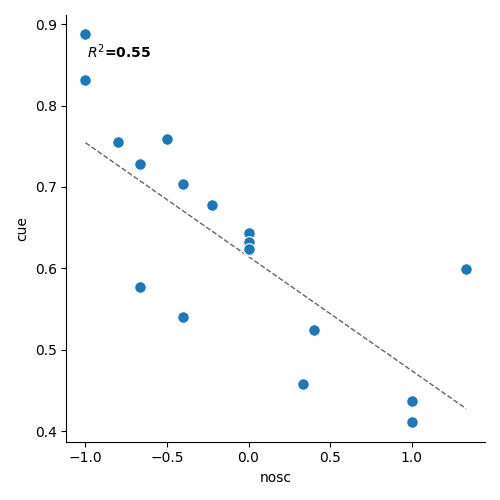
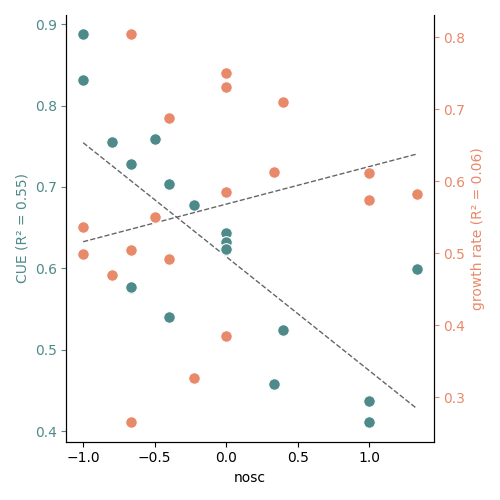
feat: add growth rate cross prediction to plot

diff --git a/simulations/growth_and_cue/calculate_regressions.py b/simulations/growth_and_cue/calculate_regressions.py
@@ -12,6 +12,10 @@ FIG_PATH = FILE_PATH / "figures"
 RES_PATH.mkdir(exist_ok=True)
 FIG_PATH.mkdir(exist_ok=True)
 
+# Define colors to use
+CUE_C = "#4f8a8b"
+GROWTH_C = "#e8896a"
+
 
 def main():
     # Load the results
@@ -25,12 +29,31 @@ def main():
     # Fit a regression line for CUE and NOSC
     m_cue, d_cue = fit(merged_df, "cue", ["nosc"])
 
+    # Fit a regression line for growth rate and NOSC
+    m_growth, d_growth = fit(merged_df, "growth_rate", ["nosc"])
+
     # Print the results
     print(f"CUE ~ nosc: R² = {m_cue.score(d_cue[['nosc']], d_cue['cue']):.3f}")
+    print(
+        f"Growth rate ~ nosc: R² = {m_growth.score(d_growth[['nosc']], d_growth['growth_rate']):.3f}"
+    )
 
     # Plot the results
     fig, ax = plt.subplots(figsize=(5, 5))
-    reg_plot(ax, m_cue, d_cue, "cue", ["nosc"])
+    ax2 = ax.twinx()
+    reg_plot(ax, m_cue, d_cue, "cue", ["nosc"], colors=CUE_C)
+    reg_plot(ax2, m_growth, d_growth, "growth_rate", ["nosc"], colors=GROWTH_C)
+
+    ax.set_ylabel(
+        f"CUE (R² = {m_cue.score(d_cue[['nosc']], d_cue['cue']):.2f})", color=CUE_C
+    )
+    ax2.set_ylabel(
+        f"growth rate (R² = {m_growth.score(d_growth[['nosc']], d_growth['growth_rate']):.2f})",
+        color=GROWTH_C,
+    )
+    ax.tick_params(axis="y", colors=CUE_C)
+    ax2.tick_params(axis="y", colors=GROWTH_C)
+
     plt.tight_layout()
     plt.savefig(FIG_PATH / "cue_vs_nosc.png")
 
@@ -50,6 +73,7 @@ def reg_plot(ax, m, d, y, xcols, colors=None):
     else:  # multiple: observed vs fitted
         x = m.predict(d[xcols].values)
         xlab = "predicted " + y
+
     ax.scatter(x, d[y], c=colors, s=70, edgecolor="white", linewidth=0.8, zorder=3)
     xs = sorted(x)  # regression/1:1 line
     if len(xcols) == 1:
@@ -64,14 +88,7 @@ def reg_plot(ax, m, d, y, xcols, colors=None):
         ax.plot(xs, xs, "--", color="#666", lw=1)
     ax.set_xlabel(xlab)
     ax.set_ylabel(y)
-    ax.text(
-        0.05,
-        0.9,
-        f"$R^2$={m.score(d[xcols], d[y]):.2f}",
-        transform=ax.transAxes,
-        fontweight="bold",
-    )
-    ax.spines[["top", "right"]].set_visible(False)
+    ax.spines["top"].set_visible(False)
 
 
 if __name__ == "__main__":
